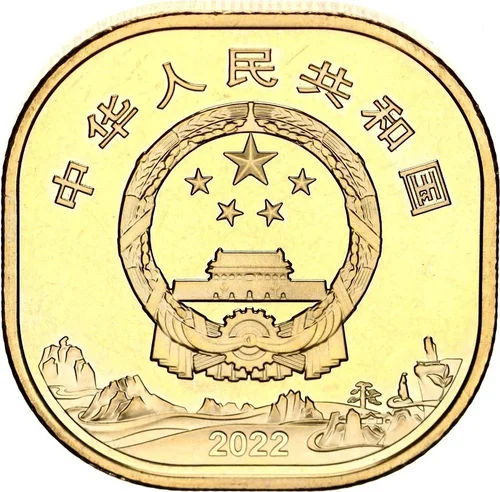
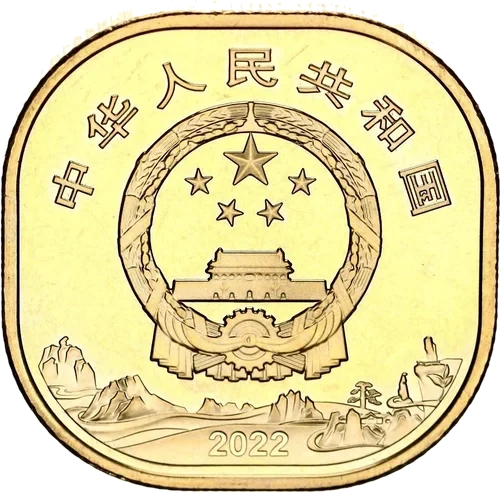
Act on the UX review: exhibition naming, geography, set numbering, compact labels
Coin images:
- Strip the baked-in white background from the four mountain coins so the
  square blank reads as square instead of sitting in a white box.
- Square frames lose their recessed navy mat and the coin fills the frame.

Exhibition naming and framing (review 19, 21, 28):
- "The Zodiac Cycle" -> "China Lunar Zodiac Coins", "The Sacred Mountains" ->
  "China's Sacred Mountains", each with a supporting line and a tagline.
- Series can name their own foyer figures; objects/designs/designers did not
  describe either Chinese series well.

Mountains as a place series (review 30, 31, 32, 39):
- Chinese name, province and UNESCO year are their own label lines rather than
  one buried sentence.
- 01/04 progression so a finite set reads as a set.

Interaction and labels (review 10, 13, 23, 37):
- The flip hint names the side it turns to instead of a bare "turn".
- Museum labels are smaller and denser; note text takes a dark ink that is
  actually legible on the cream label.
- All plaque copy trimmed to a consistent length.

Sharing (review 16):
- Each exhibition sets its own title, description, canonical and OG/Twitter tags.

diff --git a/assets/app.js b/assets/app.js
@@ -695,24 +695,33 @@
       coins.sort(function (a, b) { return (a.yearNum || 0) - (b.yearNum || 0); });
     }
     var realCount = coins.filter(function (c) { return !c._comingSoon; }).length;
+    // A finite set reads as a set when each piece says where it falls in it.
+    coins.forEach(function (c, i) { c._seq = i + 1; });
+    var total = coins.length;
     var eras = groupPortraits(ex, coins);
+    setSeriesMeta(series);
 
     var html = crumbs([{ label: 'All countries', href: '#/' }, { label: 'Exhibition', href: '#/x' }, { label: series.name }]);
     html += '<div class="exhibit gallery" data-series-theme="' + esc(series.theme || 'default') + '">' +
       '<div class="gallery-scroll" id="gscroll"><div class="gallery-pin"><div class="gallery-floor"></div>' +
       '<div class="gallery-track" id="gtrack">';
 
+    // "objects / designs / designers" suits a series collected by design. A
+    // series can name its own figures instead when those read truer.
+    var facts = (series.facts && series.facts.length)
+      ? series.facts.map(function (f) { return '<li><b>' + esc(f.value) + '</b><span>' + esc(f.label) + '</span></li>'; }).join('')
+      : '<li><b>' + realCount + '</b><span>objects</span></li>' +
+        '<li><b>' + countDesigns(ex, coins) + '</b><span>designs</span></li>' +
+        '<li><b>' + countDesigners(ex, coins) + '</b><span>designers</span></li>';
+
     // foyer — the entrance
     html += '<section class="panel foyer" aria-label="Entrance">' +
       '<p class="foyer-eyebrow">Exhibition · ' + esc(seriesCountryLabel(series)) + '</p>' +
       '<h1 class="foyer-title">' + esc(series.name) + '</h1>' +
-      '<p class="foyer-dates">' + esc(series.years || series.subtitle) + '</p>' +
+      '<p class="foyer-dates">' + esc(series.supporting || series.years || series.subtitle) + '</p>' +
+      (series.tagline ? '<p class="foyer-tagline">' + esc(series.tagline) + '</p>' : '') +
       (series.intro ? '<div class="foyer-intro">' + series.intro.map(function (p) { return '<p>' + esc(p) + '</p>'; }).join('') + '</div>' : '') +
-      '<ul class="foyer-facts">' +
-        '<li><b>' + realCount + '</b><span>objects</span></li>' +
-        '<li><b>' + countDesigns(ex, coins) + '</b><span>designs</span></li>' +
-        '<li><b>' + countDesigners(ex, coins) + '</b><span>designers</span></li>' +
-      '</ul>' +
+      '<ul class="foyer-facts">' + facts + '</ul>' +
       '<p class="foyer-hint">Scroll to walk the gallery <span>→</span></p></section>';
 
     // Each portrait era opens with the monarch's obverse of that period, then
@@ -735,7 +744,7 @@
       chunk(era.coins, 2).forEach(function (pair) {
         wallNo++;
         html += '<section class="panel wall" aria-label="Wall ' + wallNo + '">' +
-          pair.map(function (c) { return framedCoin(ex, series, c); }).join('') + '</section>';
+          pair.map(function (c) { return framedCoin(ex, series, c, total); }).join('') + '</section>';
       });
     });
 
@@ -845,14 +854,35 @@
   // A single coin hung in the hall: spotlit in a gold frame, a printed plaque
   // below it. Clicking the frame turns the coin to its reverse. The plaque is
   // brief, the way a museum label is — the fuller catalogue stays a click away.
-  function framedCoin(ex, series, c) {
+  function pad2(n) { return (n < 10 ? '0' : '') + n; }
+
+  // Where a coin sits in a finite set. Only series that are a set say so.
+  function seqMark(series, c, total) {
+    if (!series.numbered || !c._seq) return '';
+    return '<p class="coin-seq">' + pad2(c._seq) + '<i>/</i>' + pad2(total || c._seq) + '</p>';
+  }
+
+  // Place is the point of a landscape series, so it leads the label instead of
+  // sitting inside a sentence: Chinese name, then English, then province.
+  function placeLines(d) {
+    return (d.cn ? '<span class="cn">' + esc(d.cn) + '</span>' : '');
+  }
+  function placeMeta(d) {
+    return (d.place ? '<span class="place">' + esc(d.place) + '</span>' : '') +
+      (d.unesco ? '<span class="unesco">UNESCO World Heritage · ' + esc(d.unesco) + '</span>' : '');
+  }
+
+  function framedCoin(ex, series, c, total) {
+    var backName = (series.flip && series.flip.back) || 'the portrait';
     if (c._comingSoon) {
       var csv = splitVariant(c.variant);
       var csd = designInfo(ex, csv.design, c.yearNum) || {};
-      return '<figure class="framed coming-soon">' +
+      return '<figure class="framed coming-soon">' + seqMark(series, c, total) +
         '<div class="frame no-flip"><div class="mat is-empty"><svg class="coin-ghost" viewBox="0 0 100 100" aria-hidden="true">' + SHAPE_ICON[shapeKey(c.shape)] + '</svg></div></div>' +
         '<figcaption class="plaque">' +
+          placeLines(csd) +
           '<h3>' + esc(csv.design || c.denomination) + '</h3>' +
+          placeMeta(csd) +
           '<span class="yr">' + esc(c.year) + ' · ' + esc(c.denomination) + '</span>' +
           '<span class="by coming-soon-tag">Coming soon</span>' +
           (csd.represents ? '<span class="represents">' + esc(csd.represents) + '</span>' : '') +
@@ -872,13 +902,18 @@
         '<img class="face back" loading="lazy" src="' + c.front + '" alt="' + esc(label) + ', obverse portrait"></div>'
       : '<div class="mat is-empty"><svg class="coin-ghost" viewBox="0 0 100 100" aria-hidden="true">' + SHAPE_ICON[shapeKey(c.shape)] + '</svg></div>';
 
+    // "turn ↻" was too quiet to read as an invitation, and it never said what
+    // turning would show. Naming the other side makes the flip worth doing.
     var frame = c.hasImage
-      ? '<div class="frame' + shapeCls + '" tabindex="0" role="button" aria-label="Turn ' + esc(label) + ' to see the portrait">' + mat + '<span class="turn-hint">turn ↻</span></div>'
+      ? '<div class="frame' + shapeCls + '" tabindex="0" role="button" aria-label="Turn ' + esc(label) + ' to see the ' + esc(backName) + '">' + mat +
+        '<span class="turn-hint">↻ Turn to see the ' + esc(backName) + '</span></div>'
       : '<div class="frame no-flip' + shapeCls + '">' + mat + '</div>';
 
-    return '<figure class="framed">' + frame +
+    return '<figure class="framed">' + seqMark(series, c, total) + frame +
       '<figcaption class="plaque">' +
+        placeLines(d) +
         '<h3>' + esc(v.design || c.denomination) + '</h3>' +
+        placeMeta(d) +
         '<span class="yr">' + esc(c.year) + ' · ' + esc(c.denomination) + '</span>' +
         (d.represents ? '<span class="represents">' + esc(d.represents) + '</span>' : '') +
         (!series.compactPlaque && d.designer ? '<span class="by">Designed by ' + esc(d.designer) + '</span>' : '') +
@@ -886,6 +921,36 @@
         (d.note ? '<span class="note">' + esc(d.note) + '</span>' : '') +
         (c.numistaUrl ? '<a class="plaque-link" href="' + esc(c.numistaUrl) + '" target="_blank" rel="noopener" onclick="event.stopPropagation()">Full record ↗</a>' : '') +
       '</figcaption></figure>';
+  }
+
+  // Each exhibition is its own shareable page, so it gets its own title card
+  // rather than inheriting the site-wide one.
+  function setSeriesMeta(series) {
+    var title = series.name + ' — World of Coins';
+    var desc = series.metaDescription || series.lede || '';
+    var url = location.href;
+    document.title = title;
+    setMetaTag('name', 'description', desc);
+    setMetaTag('property', 'og:title', title);
+    setMetaTag('property', 'og:description', desc);
+    setMetaTag('property', 'og:url', url);
+    setMetaTag('property', 'og:type', 'article');
+    setMetaTag('name', 'twitter:title', title);
+    setMetaTag('name', 'twitter:description', desc);
+    setLink('canonical', url);
+  }
+
+  function setMetaTag(attr, key, value) {
+    if (!value) return;
+    var el = document.head.querySelector('meta[' + attr + '="' + key + '"]');
+    if (!el) { el = document.createElement('meta'); el.setAttribute(attr, key); document.head.appendChild(el); }
+    el.setAttribute('content', value);
+  }
+
+  function setLink(rel, href) {
+    var el = document.head.querySelector('link[rel="' + rel + '"]');
+    if (!el) { el = document.createElement('link'); el.setAttribute('rel', rel); document.head.appendChild(el); }
+    el.setAttribute('href', href);
   }
 
   function seriesCountryLabel(series) {

diff --git a/assets/style.css b/assets/style.css
@@ -658,11 +658,13 @@ button { font-family: inherit; }
   color: var(--ex-rule);
   margin-top: 2px;
 }
+/* The note sits on a cream label, so it takes a dark ink rather than the
+   gallery's soft-on-dark colour, which washed out to near-illegible here. */
 .plaque .note {
   display: block;
-  font-size: .7rem;
-  line-height: 1.45;
-  color: var(--ex-soft, var(--ink-dim));
+  font-size: .64rem;
+  line-height: 1.4;
+  color: #5f5647;
   margin-top: 6px;
   font-style: italic;
 }
@@ -922,6 +924,7 @@ button { font-family: inherit; }
 .foyer-eyebrow { font-size: .64rem; letter-spacing: .3em; text-transform: uppercase; color: var(--ex-rule); }
 .foyer-title { font-family: var(--serif); font-size: clamp(2.4rem, 5vw, 4.2rem); font-weight: 600; line-height: 1.02; margin: 12px 0 0; color: var(--ex-ink); }
 .foyer-dates { font-family: var(--serif); font-style: italic; font-size: 1.15rem; color: var(--ex-rule); margin-top: 8px; }
+.foyer-tagline { margin: 14px auto 0; max-width: 34ch; font-size: 1rem; line-height: 1.5; color: var(--ex-ink); opacity: .9; }
 .foyer-intro { margin: 22px auto 0; max-width: 52ch; text-align: left; }
 .foyer-intro p { margin: 0; color: var(--ex-soft); font-size: .95rem; line-height: 1.7; }
 .foyer-intro p + p { margin-top: 10px; }
@@ -980,19 +983,40 @@ button { font-family: inherit; }
 .mat .face.back { transform: rotateY(180deg); }
 .mat.is-empty { display: flex; align-items: center; justify-content: center; }
 .mat.is-empty .coin-ghost { width: 44%; height: auto; fill: none; stroke: var(--ex-rule); stroke-width: 2.5; opacity: .4; }
-.turn-hint { position: absolute; bottom: 6px; left: 50%; transform: translateX(-50%); font-size: .56rem; letter-spacing: .12em; text-transform: uppercase; color: var(--ex-dim); opacity: .7; pointer-events: none; }
+/* The hint sits below the frame rather than on the coin: it now names the side
+   you would be turning to, which is too long to float over the design. */
+.turn-hint {
+  position: absolute; bottom: -21px; left: 50%; transform: translateX(-50%);
+  font-size: .6rem; letter-spacing: .09em; text-transform: uppercase;
+  color: var(--ex-rule); opacity: .8; pointer-events: none; white-space: nowrap;
+  transition: opacity .2s;
+}
+.frame:hover .turn-hint, .frame:focus-visible .turn-hint { opacity: 1; }
 
-.frame.shape-square { border-radius: 6%; }
-.frame.shape-square .mat { border-radius: 4%; }
-.frame.shape-square .mat .face { border-radius: 3%; }
+/* 01 / 04 — a set announces its own size. */
+.coin-seq { margin: 0 0 15px; font-family: var(--serif); font-size: .82rem; letter-spacing: .2em; color: var(--ex-rule); opacity: .85; }
+.coin-seq i { font-style: normal; opacity: .4; margin: 0 5px; }
+
+/* Square coins get a square frame, and they fill it — the recessed mat that
+   suits a round coin just reads as a box behind a square one. */
+.frame.shape-square { border-radius: 7%; padding: 8px; }
+.frame.shape-square .mat { border-radius: 5%; background: none; box-shadow: none; }
+.frame.shape-square .mat .face { inset: 2%; width: 96%; height: 96%; border-radius: 4%; }
 
 /* plaque */
+/* A museum label is small and dense on purpose — it should not compete with
+   the object above it. */
 .plaque {
-  margin-top: 24px; width: min(290px, 64vw); text-align: center; padding: 13px 16px; border-radius: 5px;
+  margin-top: 34px; width: min(246px, 60vw); text-align: center; padding: 11px 13px; border-radius: 5px;
   background: var(--ex-label); border: 1px solid var(--ex-label-edge); box-shadow: 0 10px 22px rgba(0,0,0,.4); color: #2a2418;
 }
-.plaque h3 { font-family: var(--serif); font-size: 1.2rem; font-weight: 600; line-height: 1.1; color: #231f18; }
-.plaque .yr { display: block; margin-top: 2px; font-size: .62rem; letter-spacing: .12em; text-transform: uppercase; color: #8c1c2b; }
+.plaque h3 { font-family: var(--serif); font-size: .98rem; font-weight: 600; line-height: 1.15; color: #231f18; }
+/* For a series about places, the place leads: the Chinese name sits above the
+   English one, and province and heritage status get their own lines. */
+.plaque .cn { display: block; font-family: var(--serif); font-size: 1.1rem; line-height: 1.1; color: #8c1c2b; margin-bottom: 1px; }
+.plaque .place { display: block; margin-top: 4px; font-size: .64rem; font-weight: 600; letter-spacing: .04em; color: #4a4235; }
+.plaque .unesco { display: block; margin-top: 1px; font-size: .55rem; letter-spacing: .08em; text-transform: uppercase; color: #7a6a45; }
+.plaque .yr { display: block; margin-top: 5px; font-size: .58rem; letter-spacing: .12em; text-transform: uppercase; color: #8c1c2b; }
 .plaque .by { display: block; margin-top: 7px; font-size: .78rem; font-style: italic; color: #5a5142; }
 .plaque .meta { display: block; margin-top: 6px; font-size: .68rem; color: #6a614f; line-height: 1.4; }
 .plaque-link { display: inline-block; margin-top: 8px; font-size: .62rem; letter-spacing: .06em; color: #8a6a2f; text-decoration: none; }
